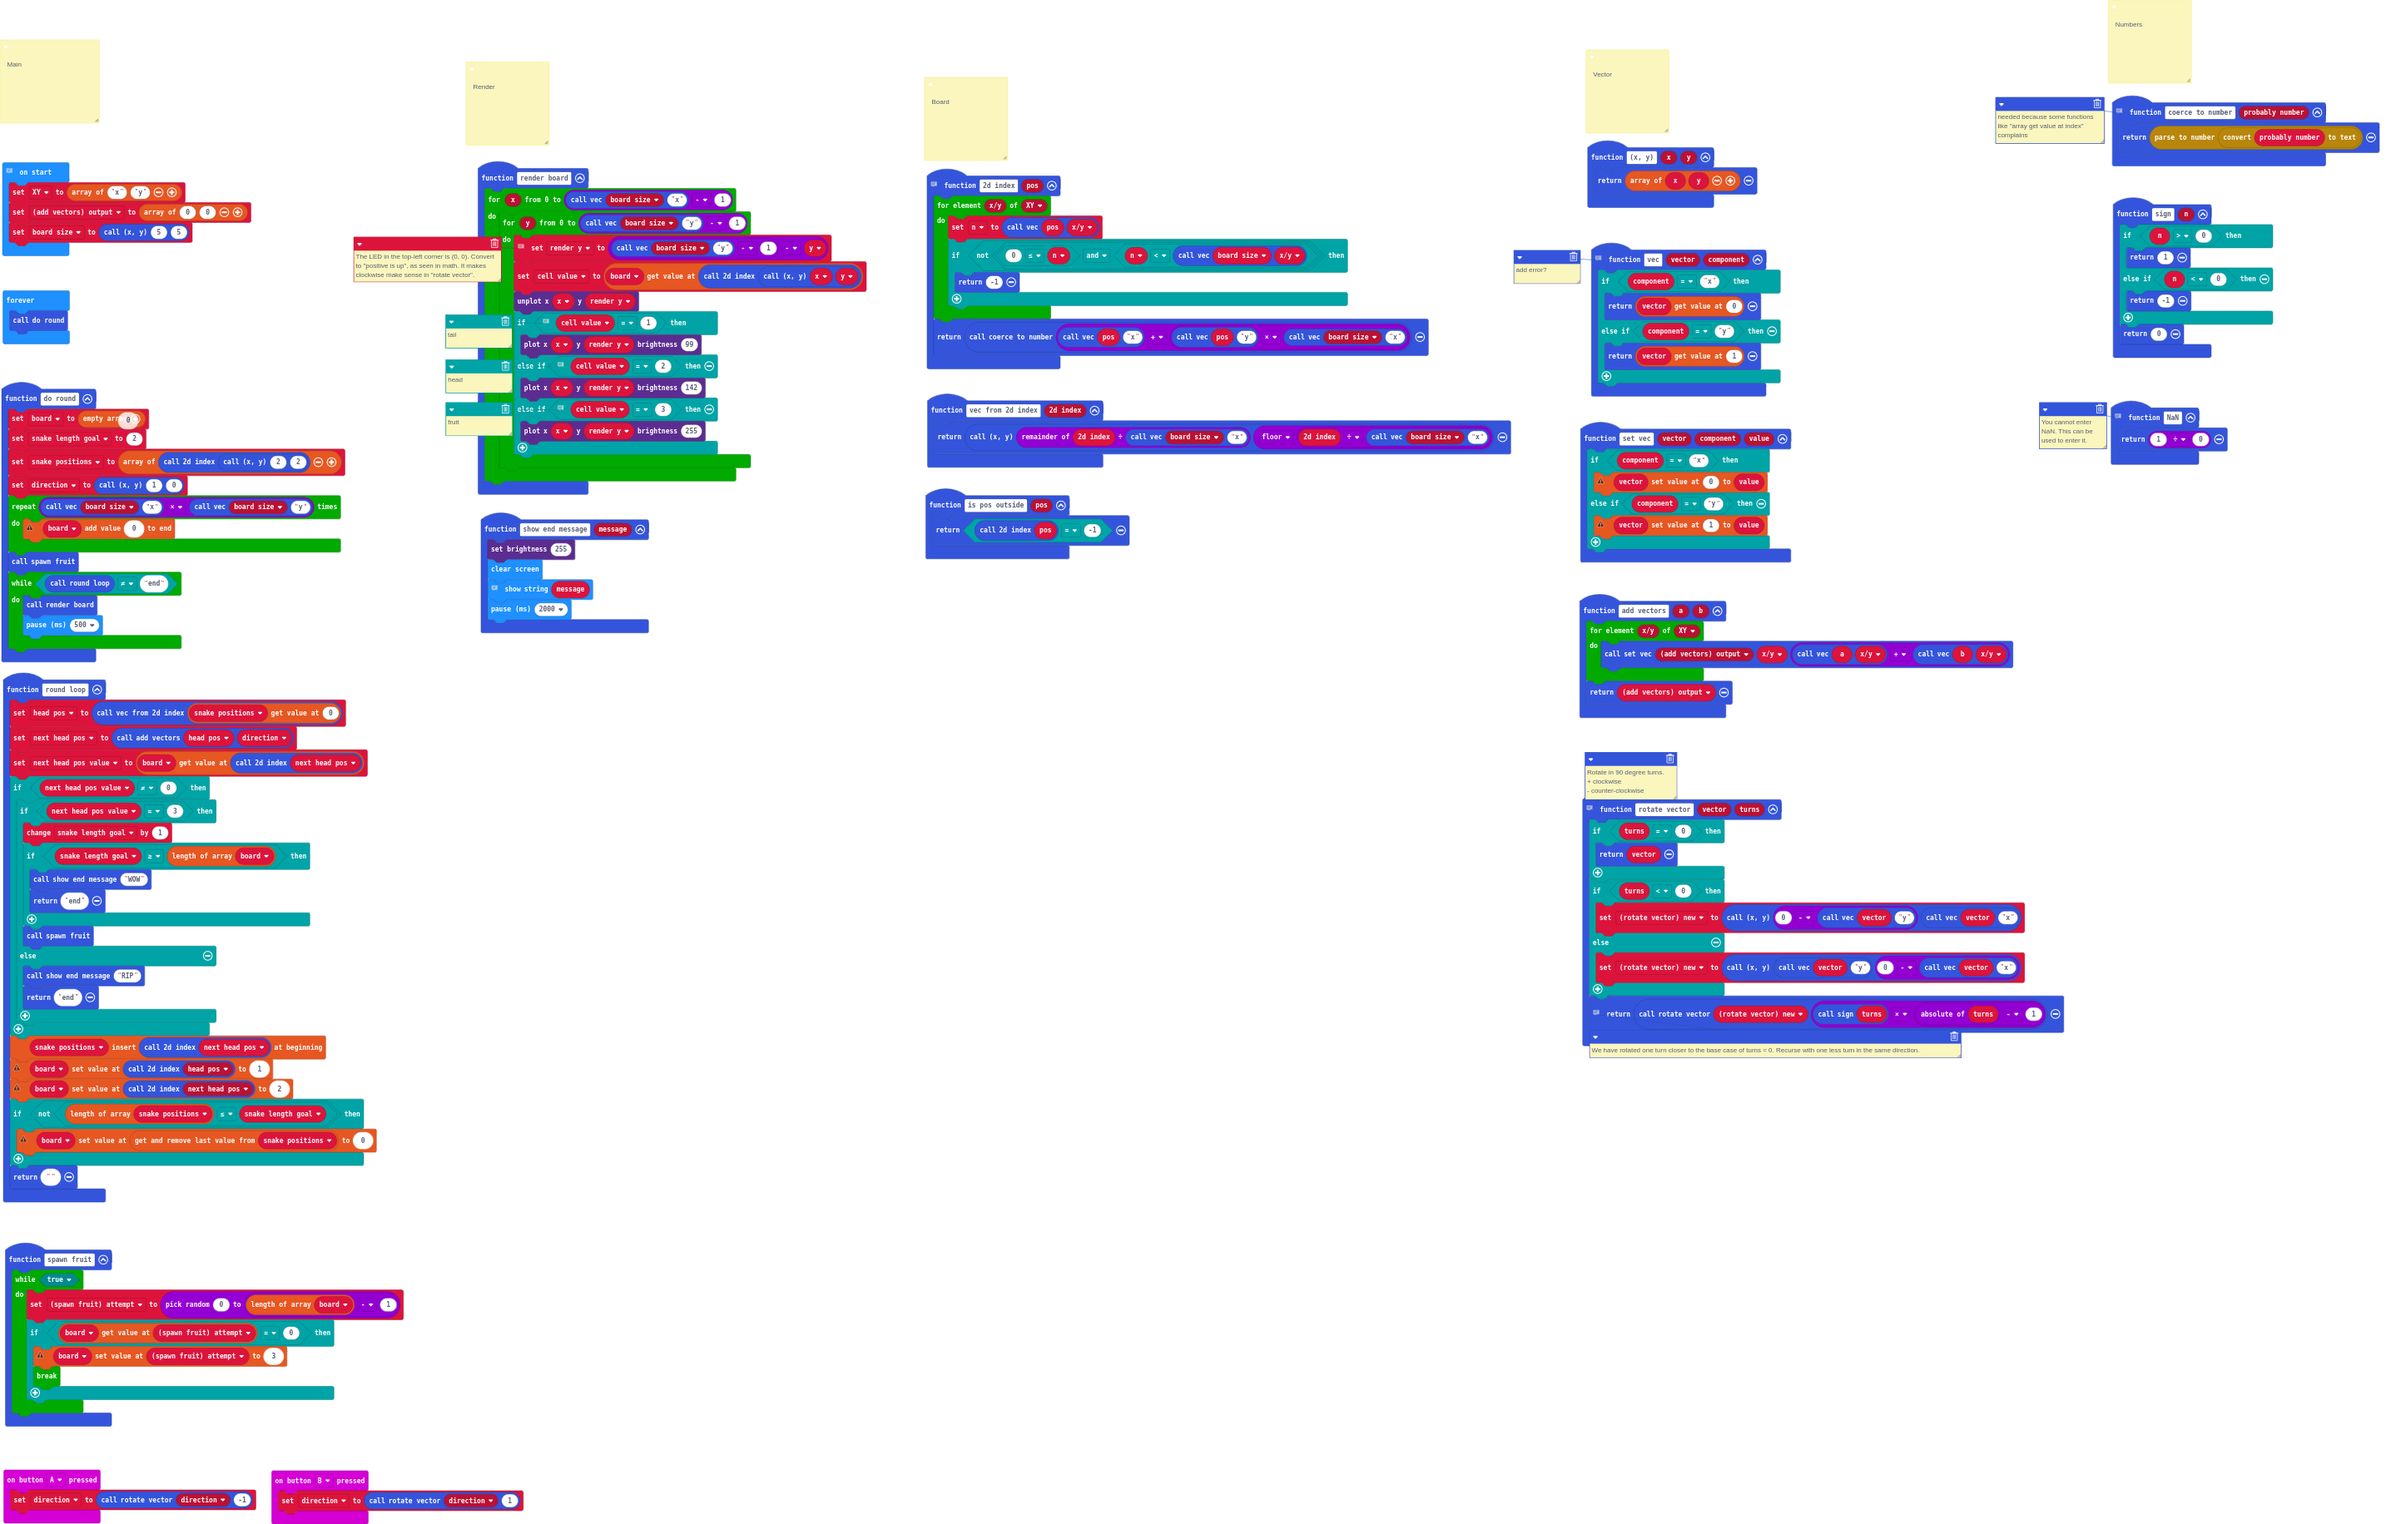
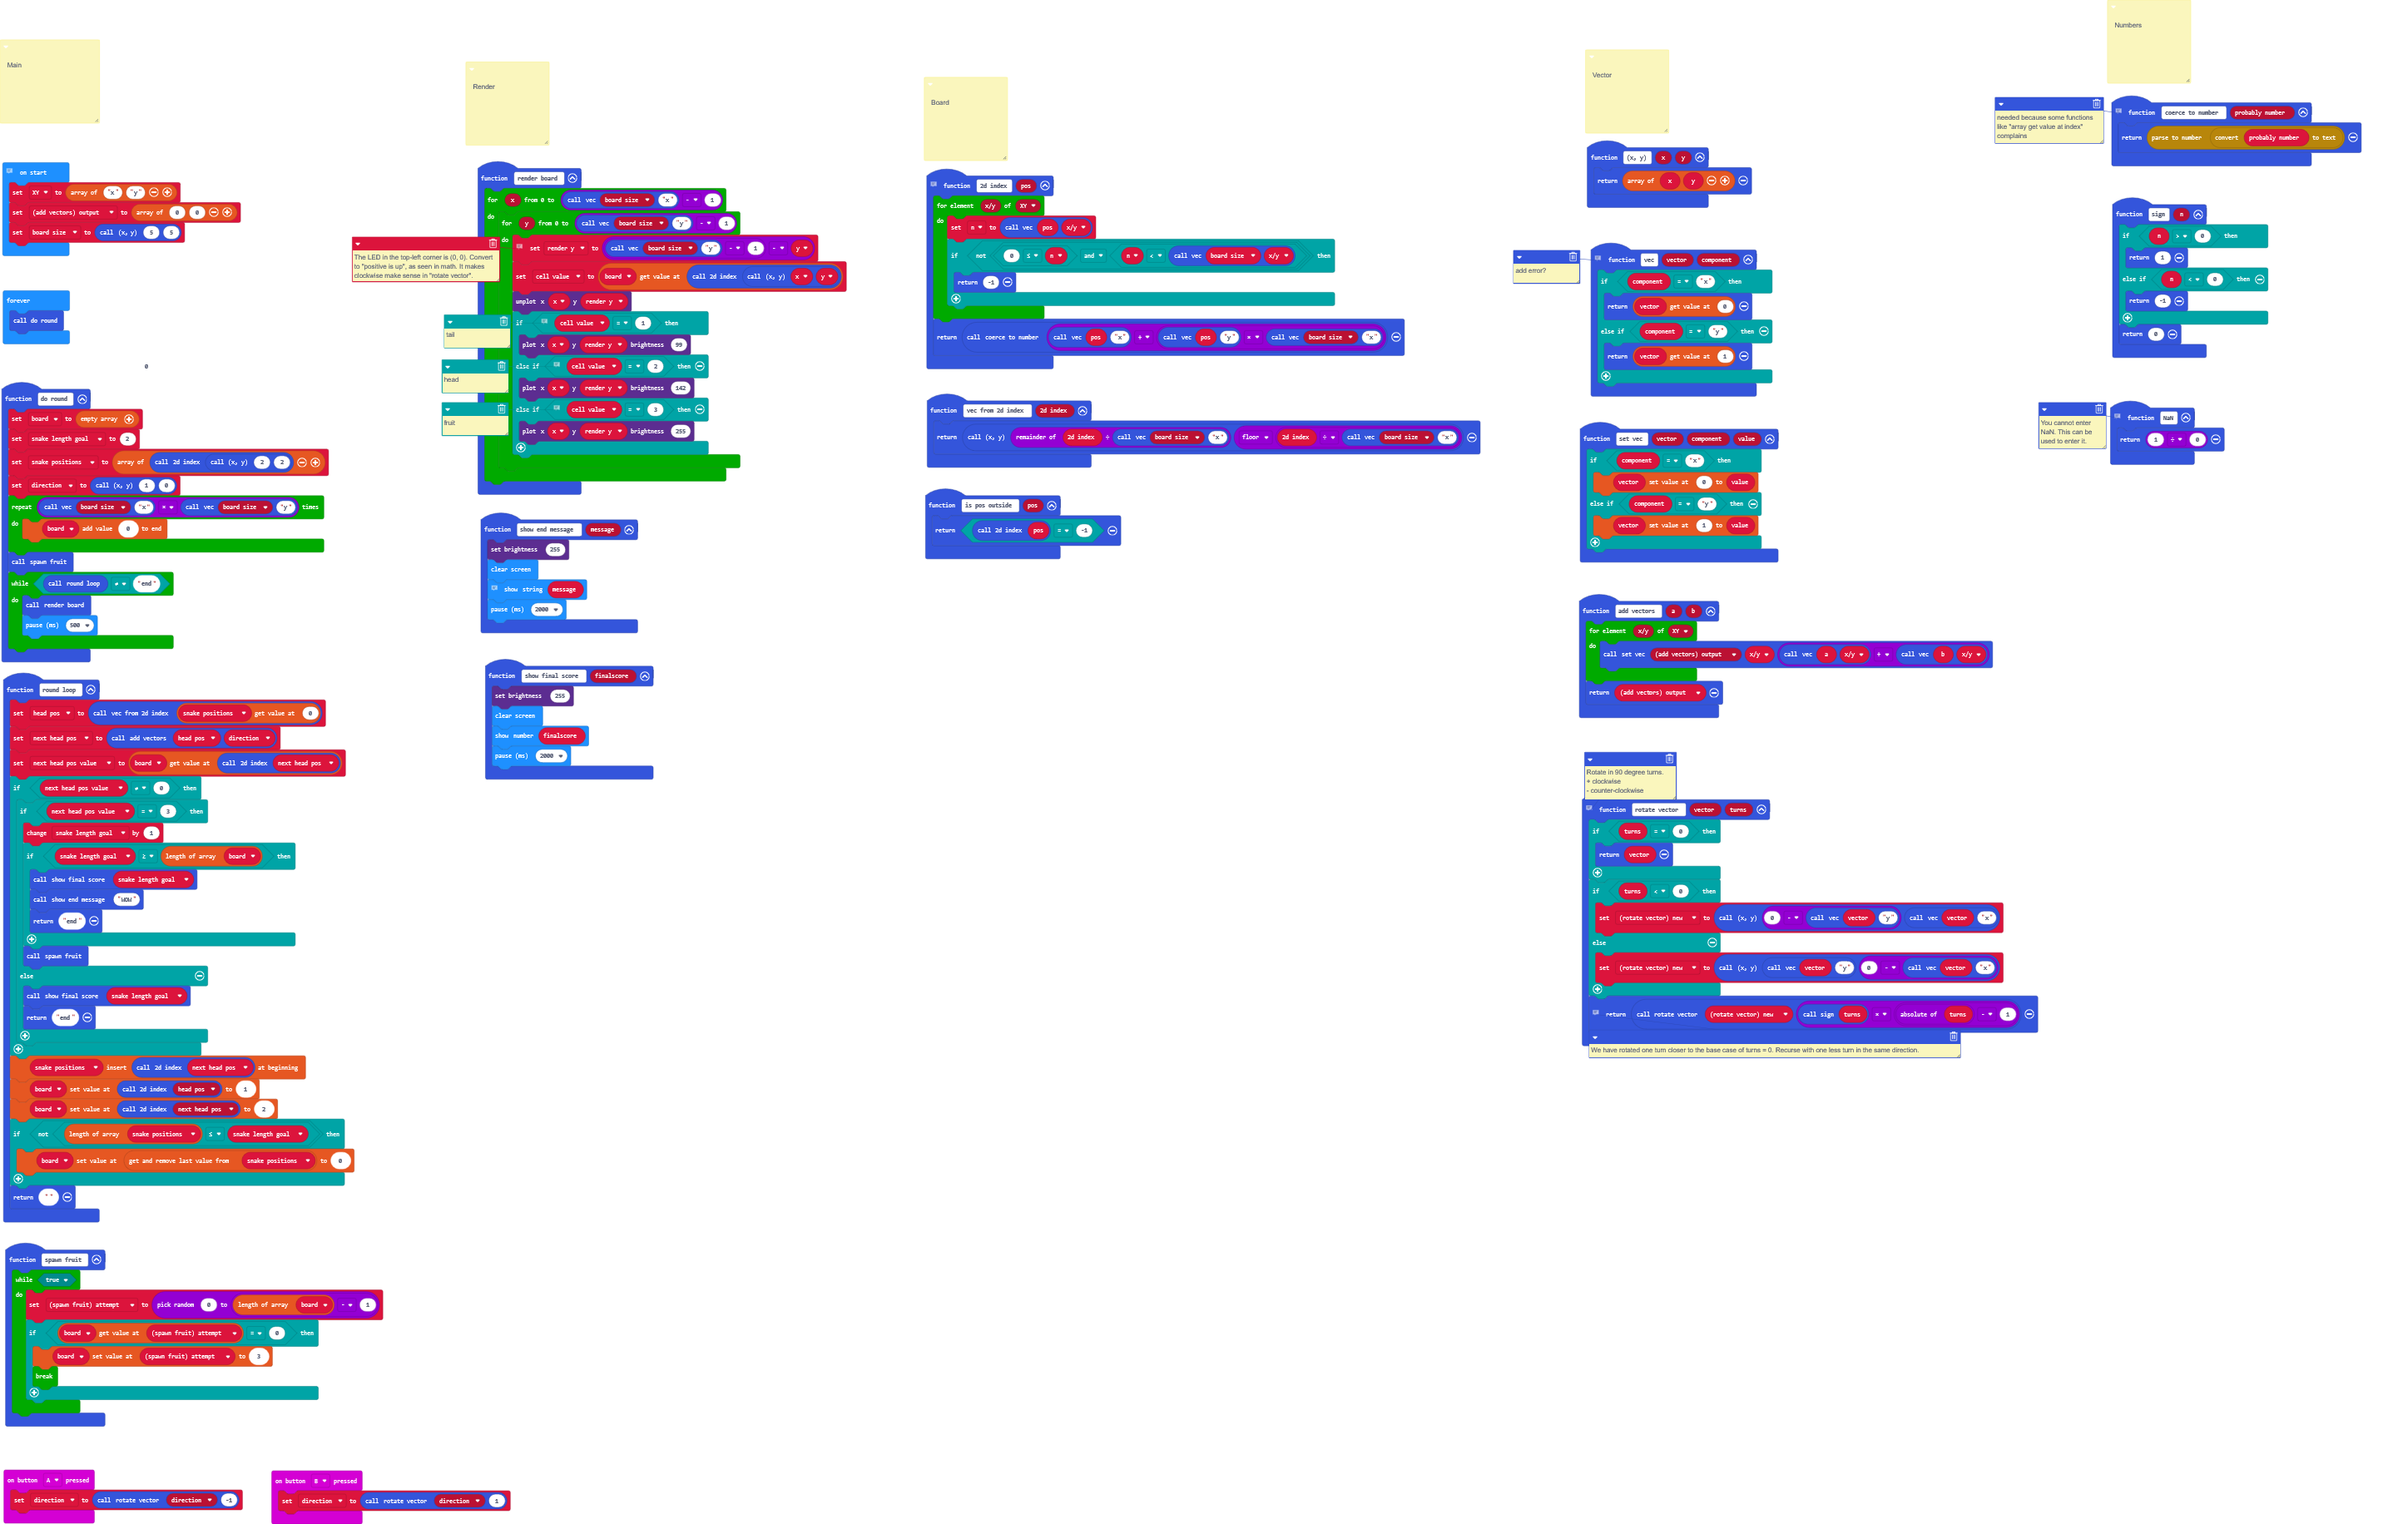
added finalscore

diff --git a/main.ts b/main.ts
@@ -22,6 +22,12 @@ function set_vec (vector: any[], component: string, value: number) {
         vector[1] = value
     }
 }
+function show_final_score (finalscore: number) {
+    led.setBrightness(255)
+    basic.clearScreen()
+    basic.showNumber(finalscore)
+    basic.pause(2000)
+}
 // You cannot enter NaN. This can be used to enter it.
 function NaN2 () {
     return 1 / 0
@@ -43,9 +49,6 @@ function do_round () {
 input.onButtonPressed(Button.A, function () {
     direction = rotate_vector(direction, -1)
 })
-/**
- * Board
- */
 function render_board () {
     for (let x = 0; x <= vec(board_size, "x") - 1; x++) {
         for (let y = 0; y <= vec(board_size, "y") - 1; y++) {
@@ -89,6 +92,9 @@ function spawn_fruit () {
         }
     }
 }
+/**
+ * Board
+ */
 // because arrays cannot store other arrays we are forced to flatten vectors to a single index
 function _2d_index (pos: any[]) {
     for (let xy of XY) {
@@ -128,12 +134,13 @@ function round_loop () {
         if (next_head_pos_value == 3) {
             snake_length_goal += 1
             if (snake_length_goal >= board.length) {
+                show_final_score(snake_length_goal)
                 show_end_message("WOW")
                 return "end"
             }
             spawn_fruit()
         } else {
-            show_end_message("RIP")
+            show_final_score(snake_length_goal)
             return "end"
         }
     }
